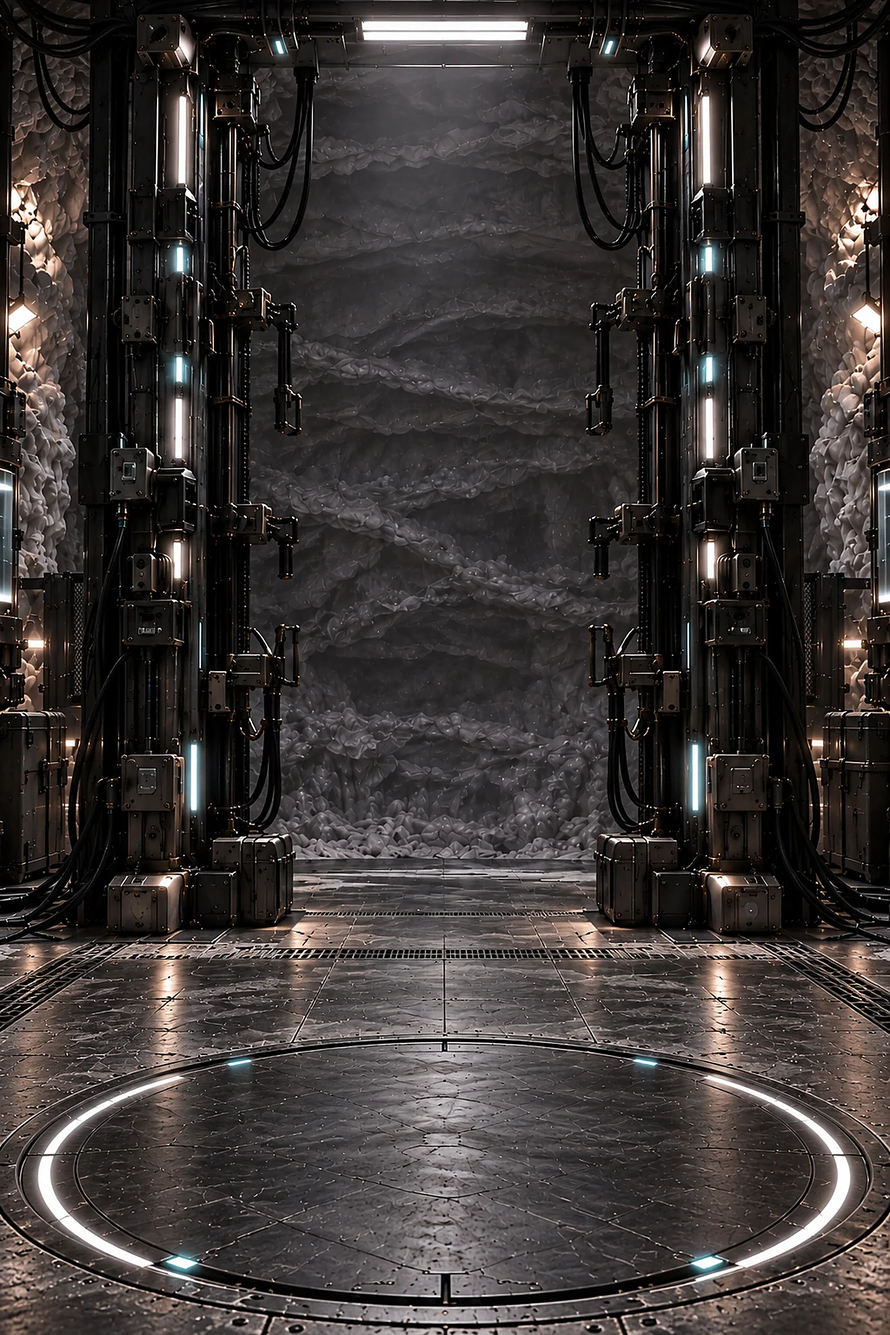
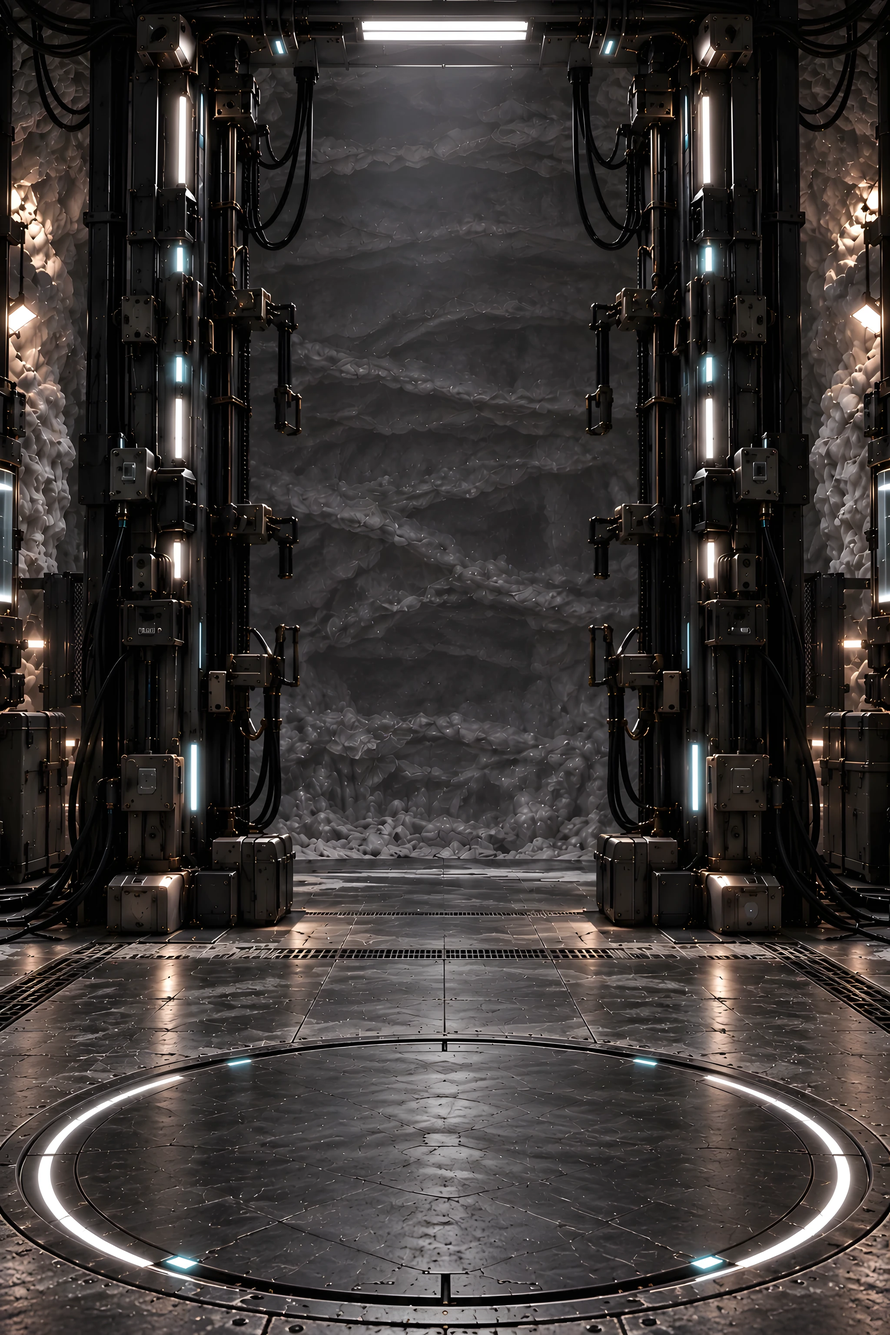
Creation bay: seamless hall sheet, AI-upscaled background
The hall boxes cut the picture along every column's outline once the camera closed on the
face. The picture now lies on one sheet raycast from the projector onto the boxes, which only
stretches there. The 2K pictures come from Real-ESRGAN x4plus instead of Lanczos.

diff --git a/crates/game-wasm/src/browser/bay.rs b/crates/game-wasm/src/browser/bay.rs
@@ -1,12 +1,12 @@
 //! The creation bay. The persona-bay picture is projected back from the camera that took it onto
-//! a rough box of the hall, so the creation camera can really move through it: seen from the
-//! projector it is the picture itself, closer in the columns slide past the back wall. A podium
-//! stands over the floor ring; cold rim light, a light shaft, glowing lamps and slow dust keep the
-//! bay alive. A second, nearer shot of the bay is projected onto the same boxes from its own
-//! camera, fitted to the first picture, and takes over as the camera closes on the face: the
-//! hall gains detail in place instead of one picture giving way to another.
+//! a sheet laid over a rough box of the hall, so the creation camera can really move through it:
+//! seen from the projector it is the picture itself, closer in the columns slide past the back
+//! wall. A podium stands over the floor ring; cold rim light, a light shaft, glowing lamps and
+//! slow dust keep the bay alive. A second, nearer shot of the bay is projected onto the same sheet
+//! from its own camera, fitted to the first picture, and takes over as the camera closes on the
+//! face: the hall gains detail in place instead of one picture giving way to another.
 use super::view_utils::*;
-use js_sys::{Array, Float32Array, Uint16Array};
+use js_sys::{Array, Float32Array, Uint32Array};
 use wasm_bindgen::prelude::*;
 
 /// Where the picture was taken from: 0.74 m over the floor, 3.83 m in front of the ring's
@@ -259,29 +259,63 @@ pub fn eye_rotation(h: &JsValue) -> JsValue {
     );
     q
 }
-fn add_box(positions: &mut Vec<f32>, indices: &mut Vec<u16>, lo: [f64; 3], hi: [f64; 3]) {
-    let corner = |i: usize| -> [f32; 3] {
-        [
-            if i & 1 == 0 { lo[0] } else { hi[0] } as f32,
-            if i & 2 == 0 { lo[1] } else { hi[1] } as f32,
-            if i & 4 == 0 { lo[2] } else { hi[2] } as f32,
-        ]
-    };
-    let start = (positions.len() / 3) as u16;
-    for i in 0..8 {
-        positions.extend_from_slice(&corner(i));
+/// How far along `dir` from `eye` the ray first enters the box, if it does.
+fn enter(eye: [f64; 3], dir: [f64; 3], lo: [f64; 3], hi: [f64; 3]) -> Option<f64> {
+    let (mut near, mut far) = (f64::NEG_INFINITY, f64::INFINITY);
+    for i in 0..3 {
+        if dir[i].abs() < 1e-12 {
+            if eye[i] < lo[i] || eye[i] > hi[i] {
+                return None;
+            }
+            continue;
+        }
+        let (a, b) = ((lo[i] - eye[i]) / dir[i], (hi[i] - eye[i]) / dir[i]);
+        near = near.max(a.min(b));
+        far = far.min(a.max(b));
     }
-    for face in [
-        [0, 1, 3, 2],
-        [4, 6, 7, 5],
-        [0, 4, 5, 1],
-        [2, 3, 7, 6],
-        [0, 2, 6, 4],
-        [1, 5, 7, 3],
-    ] {
-        let [a, b, c, d] = face.map(|i: u16| start + i);
-        indices.extend_from_slice(&[a, b, c, a, c, d]);
+    (near <= far && near > 1e-6).then_some(near)
+}
+/// The hall as one sheet seen from where the picture was taken: each vertex lies where its ray
+/// through the picture first meets the hall's boxes. The boxes themselves tear apart along every
+/// column's outline once the camera leaves the projector, and show a cut there; the sheet only
+/// stretches across, and the picture with it. It reaches past the picture's edges, where the
+/// picture mirrors, for wide frames and the close-up.
+fn hall_sheet() -> (Vec<f32>, Vec<u32>) {
+    const COLUMNS: usize = 256;
+    const ROWS: usize = 320;
+    const ACROSS: [f64; 2] = [-0.4, 1.4];
+    const DOWN: [f64; 2] = [-0.3, 1.3];
+    let boxes: Vec<([f64; 3], [f64; 3])> = HALL
+        .iter()
+        .chain(std::iter::once(&CASES))
+        .map(|(lo, hi)| ([lo[0], lo[1], lo[2] + BACK], [hi[0], hi[1], hi[2] + BACK]))
+        .collect();
+    let t = TILT.to_radians();
+    let mut positions = Vec::with_capacity((COLUMNS + 1) * (ROWS + 1) * 3);
+    for row in 0..=ROWS {
+        let py = (DOWN[0] + (DOWN[1] - DOWN[0]) * row as f64 / ROWS as f64) * PICTURE[1];
+        for column in 0..=COLUMNS {
+            let px = (ACROSS[0] + (ACROSS[1] - ACROSS[0]) * column as f64 / COLUMNS as f64) * PICTURE[0];
+            let (x, y) = ((px - PICTURE[0] / 2.0) / FOCAL, (PICTURE[1] / 2.0 - py) / FOCAL);
+            let dir = [x, y * t.cos() + t.sin(), y * t.sin() - t.cos()];
+            let far = boxes
+                .iter()
+                .filter_map(|(lo, hi)| enter(EYE, dir, *lo, *hi))
+                .fold(f64::INFINITY, f64::min);
+            let far = if far.is_finite() { far } else { 20.0 };
+            positions.extend((0..3).map(|i| (EYE[i] + dir[i] * far) as f32));
+        }
     }
+    let mut indices = Vec::with_capacity(COLUMNS * ROWS * 6);
+    let at = |row: usize, column: usize| (row * (COLUMNS + 1) + column) as u32;
+    for row in 0..ROWS {
+        for column in 0..COLUMNS {
+            let (a, b) = (at(row, column), at(row, column + 1));
+            let (c, d) = (at(row + 1, column + 1), at(row + 1, column));
+            indices.extend_from_slice(&[a, d, c, a, c, b]);
+        }
+    }
+    (positions, indices)
 }
 fn uniforms(values: &[(&str, JsValue)]) -> JsValue {
     let out = object();
@@ -345,11 +379,7 @@ pub fn build(s: &JsValue, anisotropy: f64) {
     };
     let photo = picture("persona-bay");
     let close = picture("persona-bay-close");
-    let (mut positions, mut indices) = (Vec::new(), Vec::new());
-    let back = |p: [f64; 3]| [p[0], p[1], p[2] + BACK];
-    for (lo, hi) in HALL.iter().chain(std::iter::once(&CASES)) {
-        add_box(&mut positions, &mut indices, back(*lo), back(*hi));
-    }
+    let (positions, indices) = hall_sheet();
     let geometry = make(&h, "THREE.BufferGeometry", &[]);
     call(
         &geometry,
@@ -362,7 +392,7 @@ pub fn build(s: &JsValue, anisotropy: f64) {
     call(
         &geometry,
         "setIndex",
-        &[make(&h, "THREE.BufferAttribute", &[Uint16Array::from(&indices[..]).into(), num(1.0)])],
+        &[make(&h, "THREE.BufferAttribute", &[Uint32Array::from(&indices[..]).into(), num(1.0)])],
     );
     let hall = shader(
         &h,
